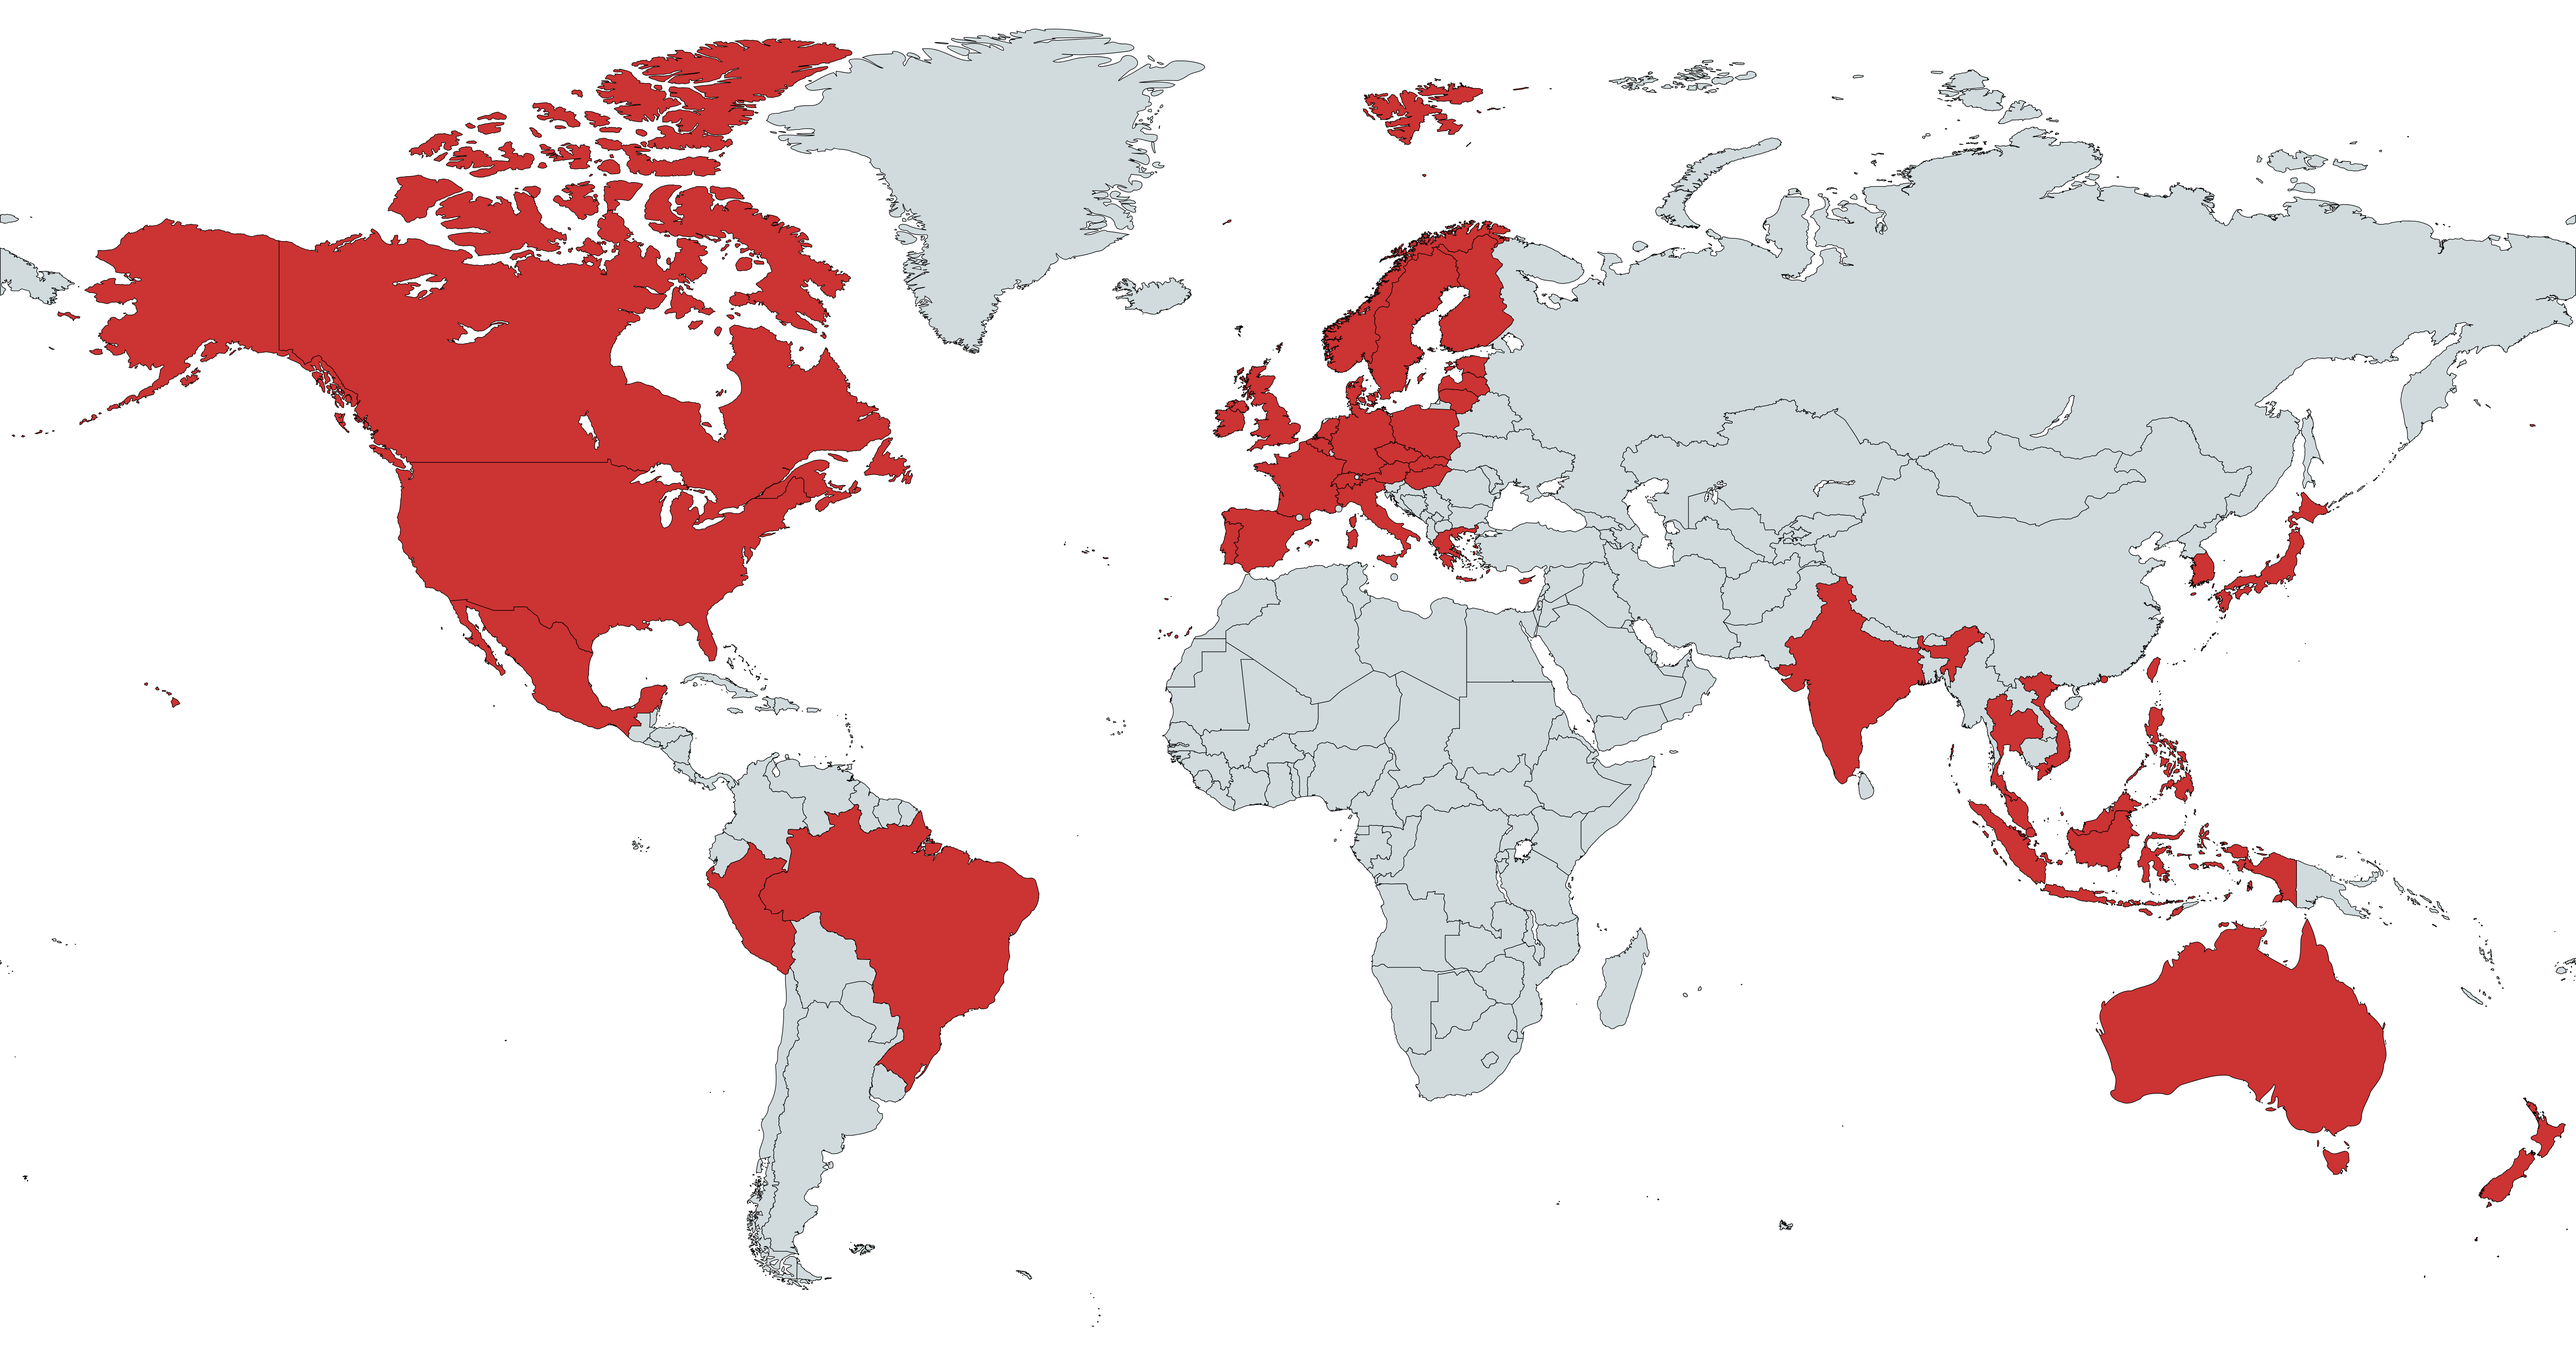
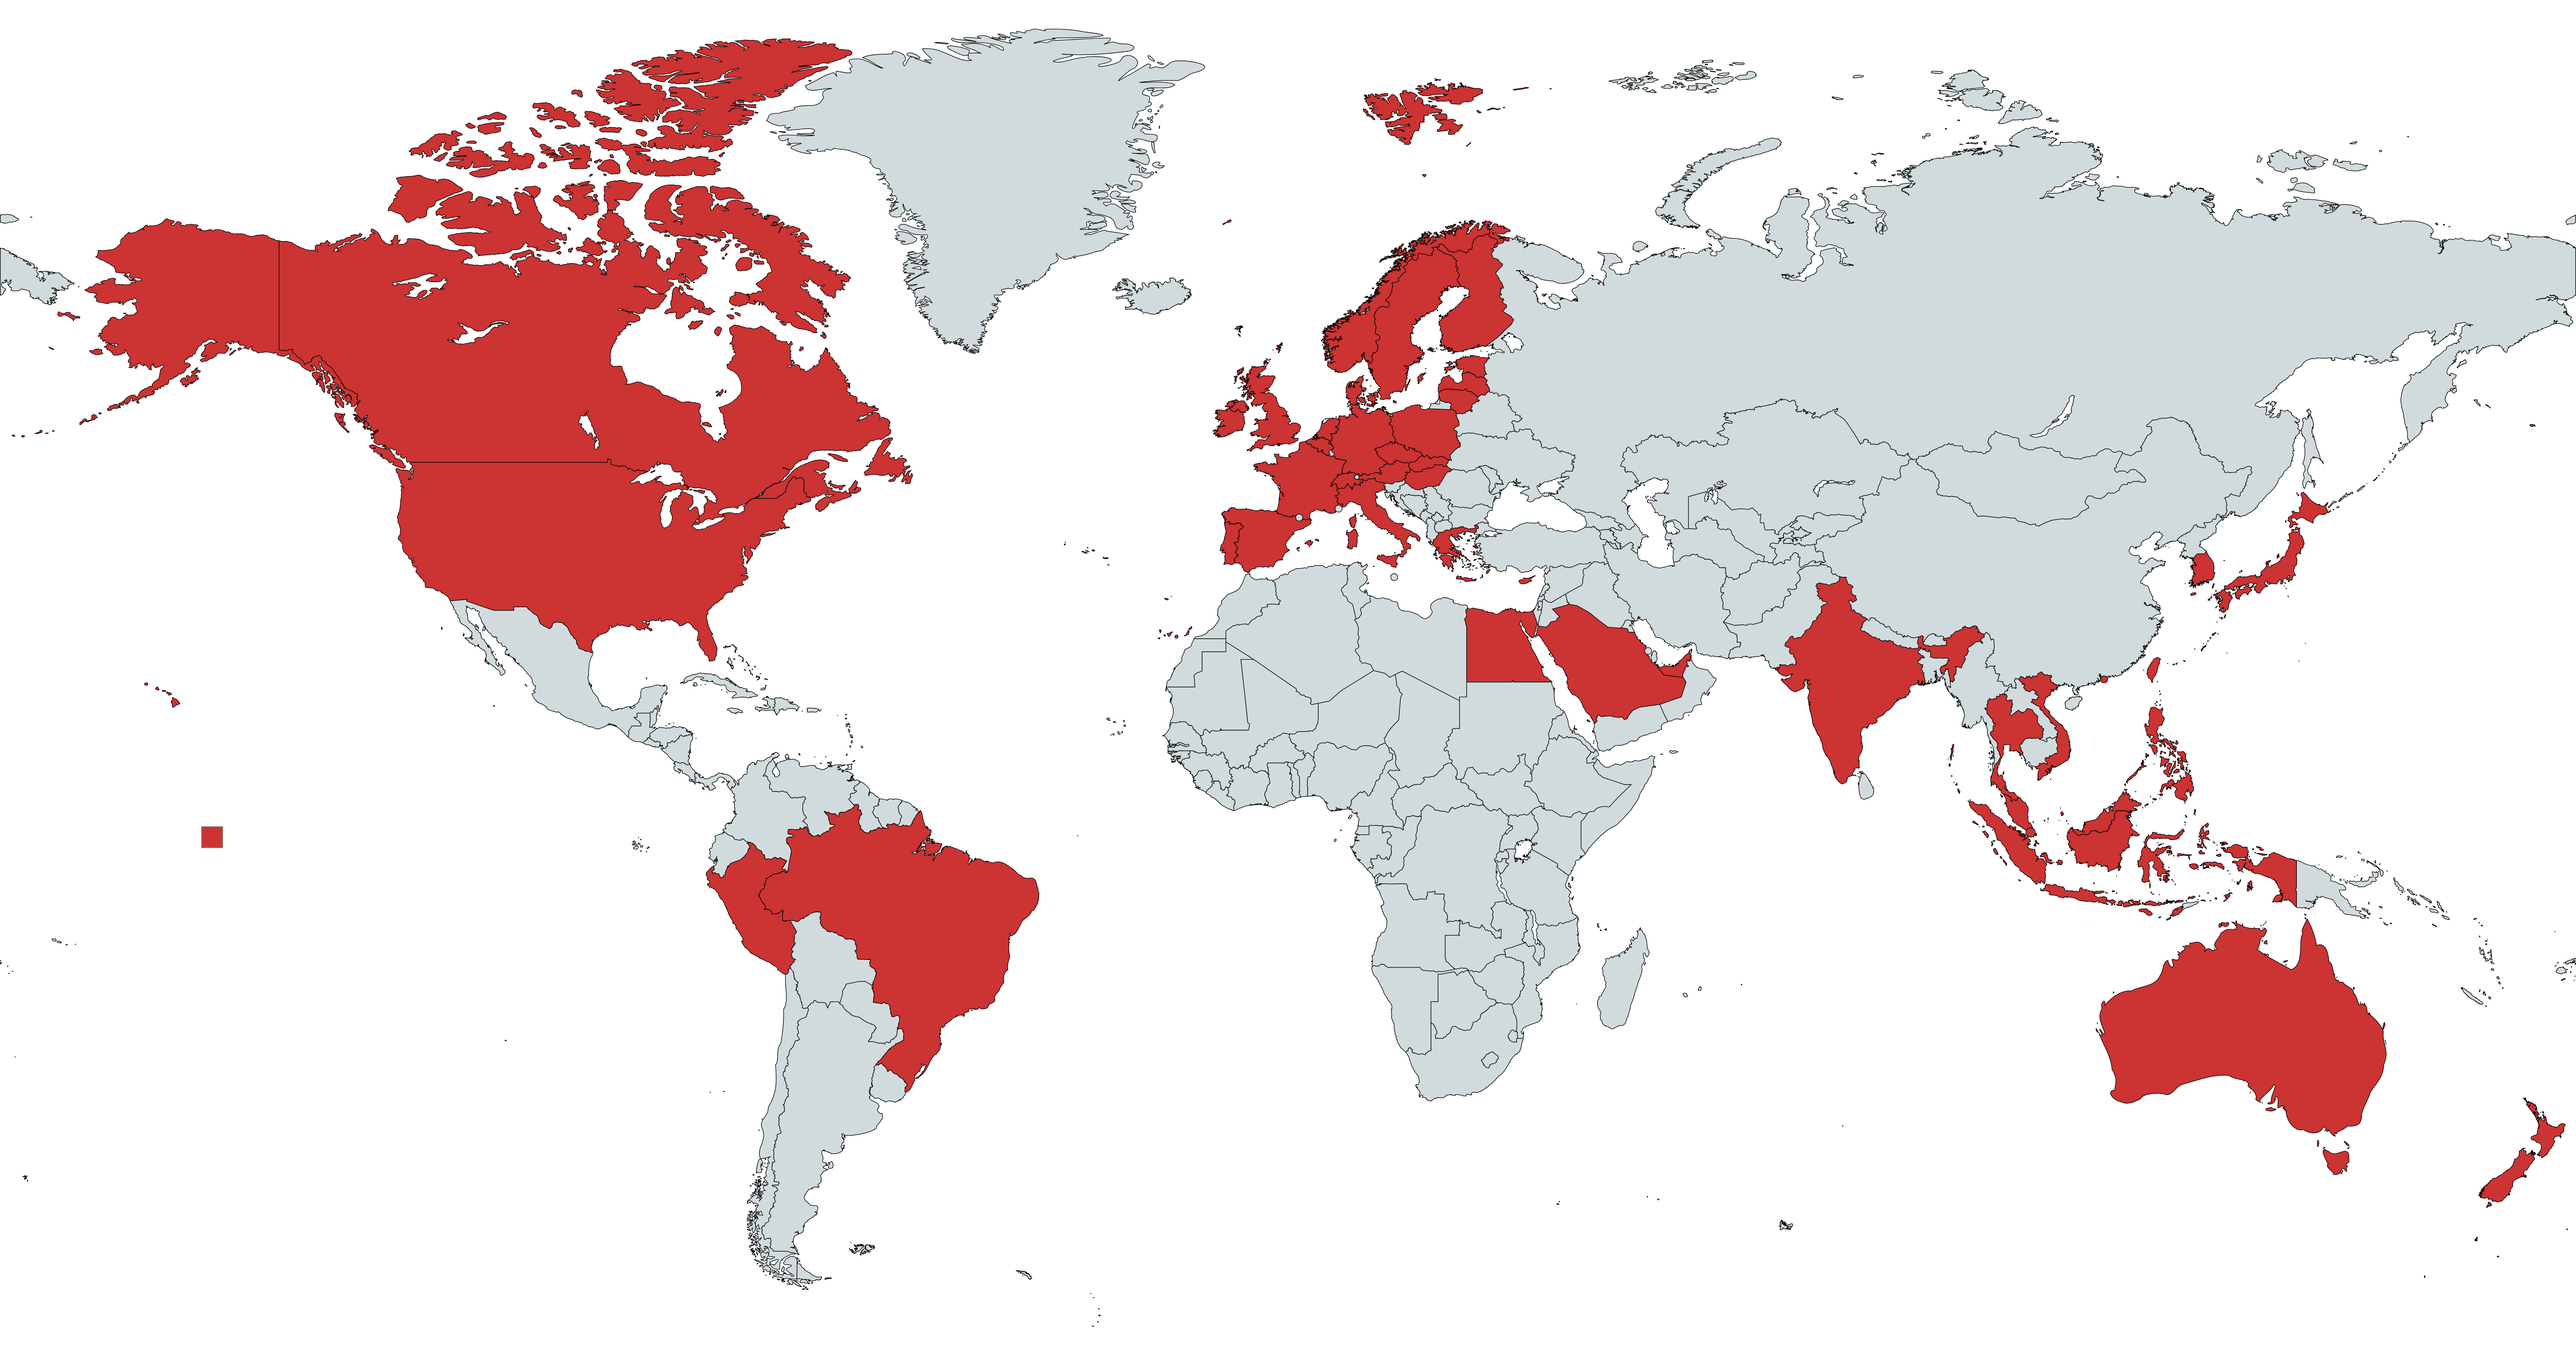
added saudi arabia and UAE

Changed region(s): [[0.1556, 0.4361, 0.28, 0.5607], [0.5601, 0.4361, 0.6534, 0.5295], [0.0622, 0.5918, 0.0933, 0.623]]

diff --git a/src/country.rs b/src/country.rs
@@ -32,6 +32,8 @@ pub static FIVE_DIGIT_NATIONS: &[Country] = &[
     Country::FI,
     Country::MY,
     Country::MX,
+    Country::EG,
+    Country::SA,
 ];
 
 /// Countries which use six digits in the postcode, e.g. `123456`
@@ -55,9 +57,13 @@ pub static UNIQUE_COUNTRIES: &[Country] = &[
     Country::IE,
 ];
 
+pub static FIVE_DIGIT_ADDITIONAL_NATIONS: &[Country] = &[Country::US, Country::SA];
+
 /// All countries supported by the postcode extractor
 #[derive(Debug, Serialize, Deserialize, Clone, Copy, PartialEq, PartialOrd, Ord, Eq)]
 pub enum Country {
+    /// UAE
+    AE,
     /// Austria
     AT,
     /// Australia
@@ -128,6 +134,8 @@ pub enum Country {
     PL,
     /// Portugal
     PT,
+    /// Saudi Arabia
+    SA,
     /// Sweden
     SE,
     /// Singapore
@@ -152,12 +160,15 @@ pub enum Country {
     Unknown6Digit,
     /// Countries which use five digits in the postcode, but there's a mandatory space, e.g. `653 02`
     Unknown5DigitSpace,
+    /// Countries with 5 digits and an additional 4 optional e.g. `12345-1234`
+    Unknown5DigitAdditional,
 }
 
 impl Country {
     /// Convert a country into its English name
     pub fn to_en_name(&self) -> String {
         return match self {
+            Country::AE => "United Arab Emirates".to_string(),
             Country::AT => "Austria".to_string(),
             Country::AU => "Australia".to_string(),
             Country::BE => "Belgium".to_string(),
@@ -193,6 +204,7 @@ impl Country {
             Country::PH => "Philippines".to_string(),
             Country::PL => "Poland".to_string(),
             Country::PT => "Portugal".to_string(),
+            Country::SA => "Saudi Arabia".to_string(),
             Country::SE => "Sweden".to_string(),
             Country::SG => "Singapore".to_string(),
             Country::SK => "Slovakia".to_string(),
@@ -207,12 +219,16 @@ impl Country {
             Country::Unknown5DigitSpace => {
                 "An Unknown Country With a 5 Digit Postcode and Space".to_string()
             }
+            Country::Unknown5DigitAdditional => {
+                "An Unknown Country With a 5 Digit Plus 4 Digit Postcode".to_string()
+            }
         };
     }
 
     /// Convert a country into its best fit local name
     pub fn to_local_name(&self) -> String {
         return match self {
+            Country::AE => "الإمارات العربية المتحدة".to_string(),
             Country::AT => "Österreich".to_string(),
             Country::AU => "Australia".to_string(),
             Country::BE => "België".to_string(),
@@ -248,6 +264,7 @@ impl Country {
             Country::PH => "Philippines".to_string(),
             Country::PL => "Poland".to_string(),
             Country::PT => "Portugal".to_string(),
+            Country::SA => "المملكة العربية السعودية".to_string(),
             Country::SE => "Sweden".to_string(),
             Country::SG => "Singapore".to_string(),
             Country::SK => "Slovakia".to_string(),
@@ -261,6 +278,9 @@ impl Country {
             Country::Unknown6Digit => "An Unknown Country With a 6 Digit Postcode".to_string(),
             Country::Unknown5DigitSpace => {
                 "An Unknown Country With a 5 Digit Postcode and Space".to_string()
+            }
+            Country::Unknown5DigitAdditional => {
+                "An Unknown Country With a 5 Digit Plus 4 Digit Postcode".to_string()
             }
         };
     }

diff --git a/tests/test_all.rs b/tests/test_all.rs
@@ -1,6 +1,6 @@
 use postcode_extractor::{
-    Country, FIVE_DIGIT_NATIONS, FIVE_DIGIT_WITH_SPACE_NATIONS, FOUR_DIGIT_NATIONS,
-    PostcodeWrapper, SIX_DIGIT_NATIONS, evaluate_all_countries,
+    Country, FIVE_DIGIT_ADDITIONAL_NATIONS, FIVE_DIGIT_NATIONS, FIVE_DIGIT_WITH_SPACE_NATIONS,
+    FOUR_DIGIT_NATIONS, PostcodeWrapper, SIX_DIGIT_NATIONS, evaluate_all_countries,
 };
 use serde::Deserialize;
 use std::fs;
@@ -105,10 +105,18 @@ fn verify_country(wrapper: &PostcodeWrapper, test_holder: &TestHolder, debug_msg
                 test_holder.country, wrapper.country, debug_msg
             )
         }
+    } else if FIVE_DIGIT_ADDITIONAL_NATIONS.contains(&test_holder.country) {
+        if wrapper.country != Country::Unknown5DigitAdditional
+            && wrapper.country != Country::Unknown5Digit
+        {
+            panic!(
+                "Expected {:?}; got {:?} {}",
+                test_holder.country, wrapper.country, debug_msg
+            )
+        }
     } else if FIVE_DIGIT_NATIONS.contains(&test_holder.country) {
         if wrapper.country != Country::Unknown5Digit
-            && !(wrapper.country == Country::US && test_holder.country == Country::US)
-            && !(wrapper.country == Country::TW && test_holder.country == Country::TW)
+            && wrapper.country != Country::Unknown5DigitAdditional
         {
             panic!(
                 "Expected {:?}; got {:?} {}",

diff --git a/src/lib.rs b/src/lib.rs
@@ -10,8 +10,8 @@ mod json_models;
 use crate::json_models::{PositionLogic, RegexJson};
 
 pub use country::{
-    Country, FIVE_DIGIT_NATIONS, FIVE_DIGIT_WITH_SPACE_NATIONS, FOUR_DIGIT_NATIONS,
-    SIX_DIGIT_NATIONS, UNIQUE_COUNTRIES,
+    Country, FIVE_DIGIT_ADDITIONAL_NATIONS, FIVE_DIGIT_NATIONS, FIVE_DIGIT_WITH_SPACE_NATIONS,
+    FOUR_DIGIT_NATIONS, SIX_DIGIT_NATIONS, UNIQUE_COUNTRIES,
 };
 
 static TEMPLATES_DIR: Dir = include_dir!("$CARGO_MANIFEST_DIR/postalcode-extractor/regex");
@@ -176,11 +176,11 @@ pub fn evaluate_all_countries(
         }));
     }
 
-    // USA Special Case
+    // USA and Saudi Arabia Special Case
     if let Ok(Some(pc)) = evaluate_single_country(haystack, Country::US, check_position) {
         if pc.additional.is_some() {
             return Ok(Some(PostcodeWrapper {
-                country: Country::US,
+                country: Country::Unknown5DigitAdditional,
                 postcode: pc,
             }));
         }
